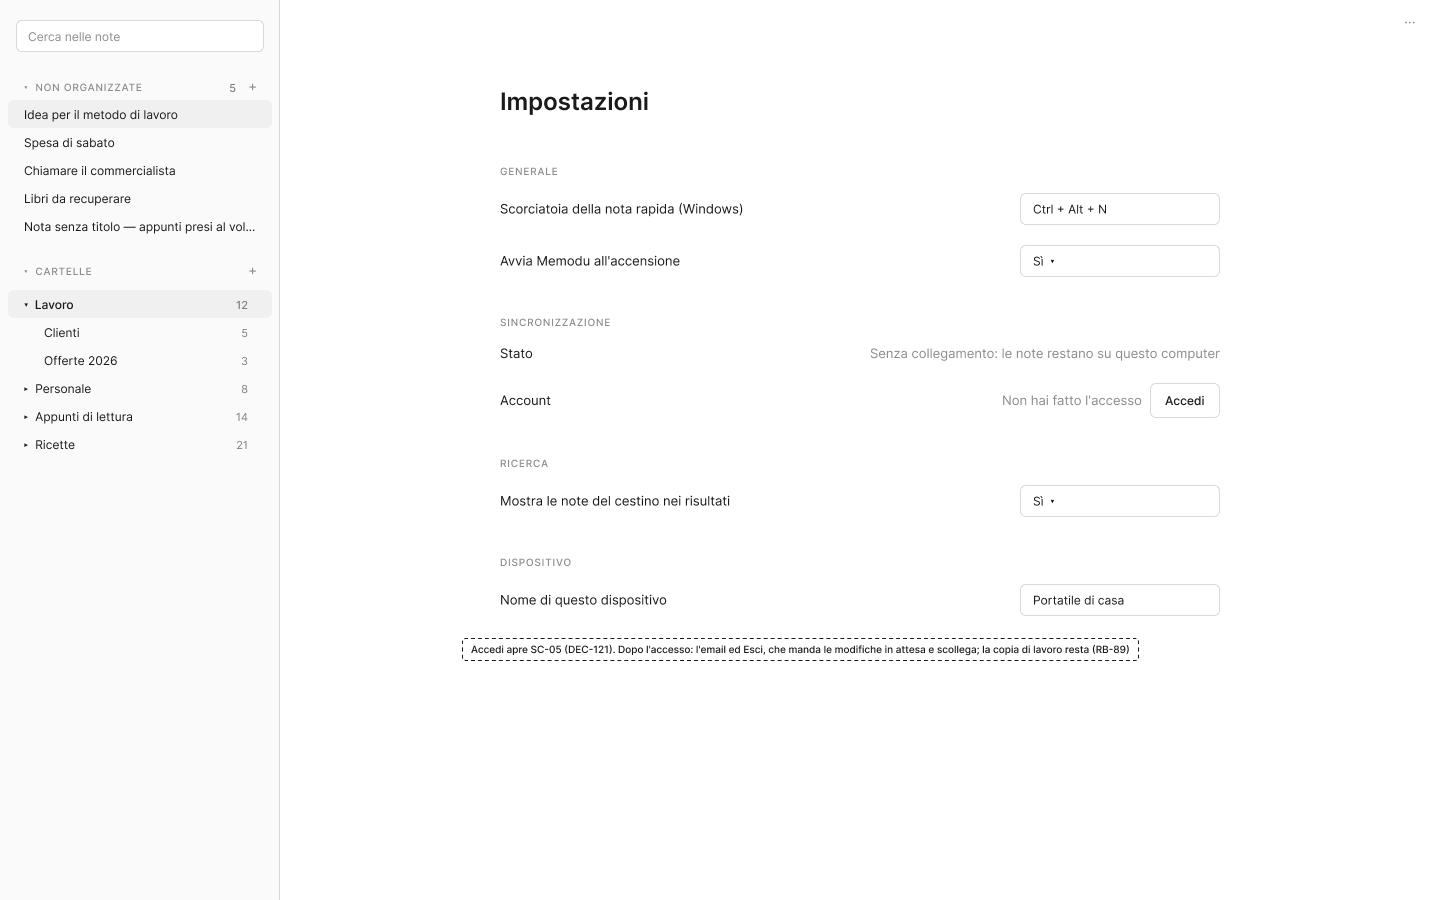
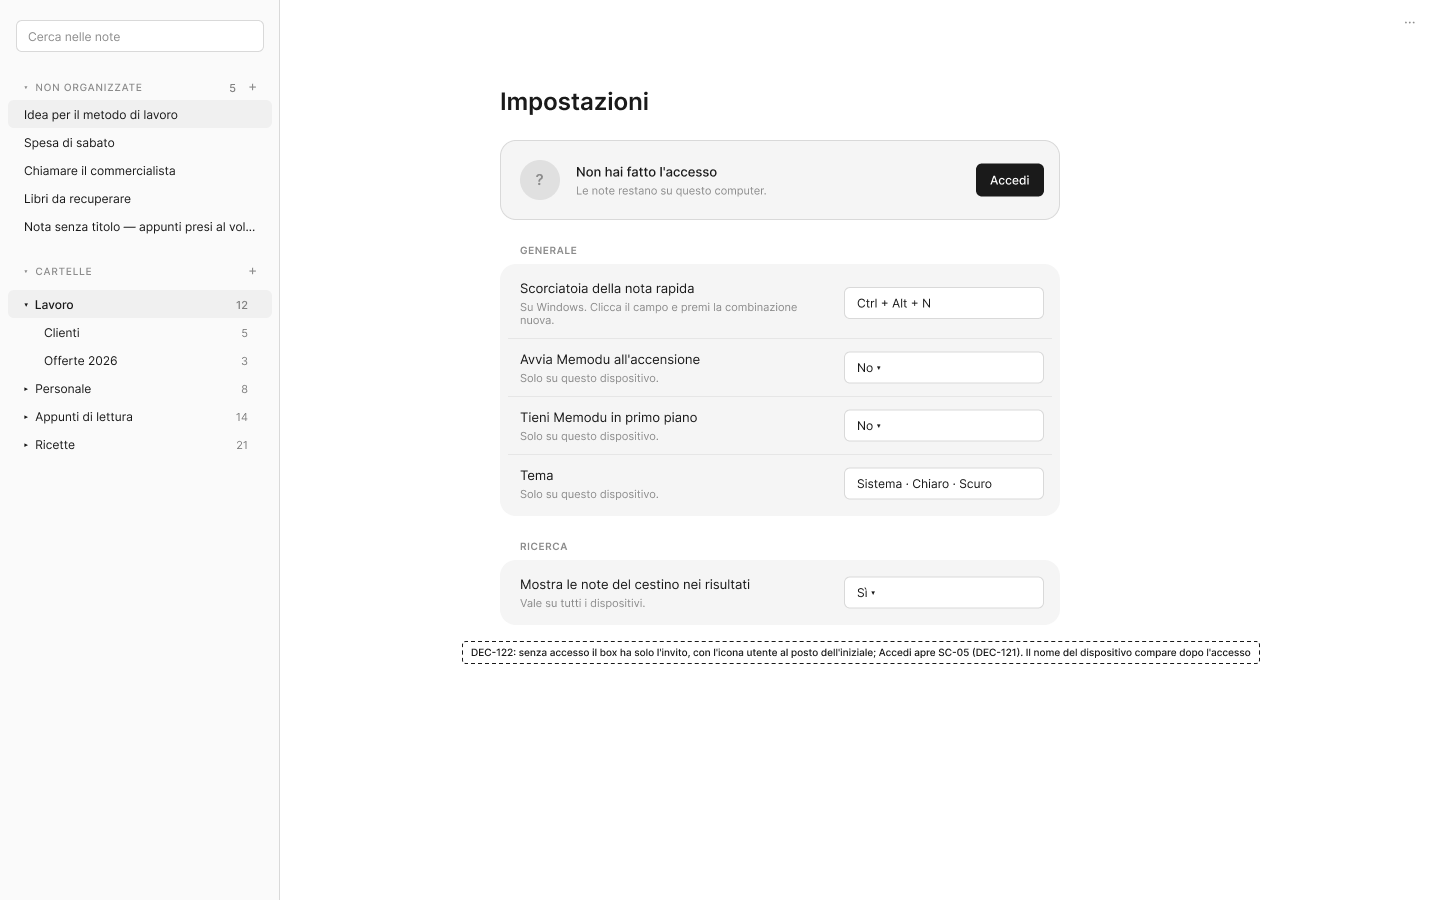
DEC-122: wireframe di SC-06 con il box dell'account
Wireframe senza accesso e collegato rifatti ed esportati: box
dell'account in cima, sezioni Generale e Ricerca in riquadri.

diff --git a/docs/avanzamento.md b/docs/avanzamento.md
@@ -2,7 +2,7 @@
 
 <!-- Stato della documentazione (vedi "Lo stato della documentazione" nella guida). Si sovrascrive; le modifiche non vanno nello storico. Chi riprende il lavoro parte da qui. -->
 
-**Ultimo aggiornamento:** 07/10/2026 (DEC-122 accettata da Manuel Cucca: impostazioni con il box dell'account in cima e le sezioni in riquadri; libreria approvata (CMP-31, CMP-32); prossimo passo wireframe e mockup di SC-06. 0.1.9 installata sul PC Windows, note sul server tutte cifrate; da fare il Mac, TC-127, TC-136 e la rimozione di `MEMODU_IMPRONTA`. Prima, 06/10/2026: DEC-121 accettata da Manuel Cucca: accesso con email e password di un utente fisso e cifratura end-to-end, architettura temporanea e finale; documenti aggiornati, RF-14 e cifratura di RF-10 Pronti con criteri e piano di test approvati, la cifratura di RF-10 va in Fase 8; codice da fare. Prima, 04/10/2026: DEC-120 corretto dopo la prova di Manuel Cucca sulla 0.1.7: velo su tutta la finestra mentre si trascina da fuori, il file rilasciato non entra più nel testo aperto; rilasciato nella 0.1.8, installata sul PC di Manuel Cucca; TC-122 superato su Windows, da provare sul Mac; DEC-120: file e cartelle trascinati dentro Memodu vanno in Locale, trascinamento interno con il puntatore, 0.1.7 rilasciata e installata; DEC-119: sezione CLOUD con le non organizzate nella radice, note prima delle cartelle; libreria pubblicata (CMP-14, menu Aggiungi in CMP-09), mockup di SC-01, SC-03, SC-04, SC-06 e Locale aggiornati con le esportazioni; codice fatto il 04/10/2026 (`Colonna.tsx`, Sposta in, ricerca, ordine di Locale nel nucleo) e visto nell'app; RF-17 Locale progettato dalla Fase 1 alla 8 e scritto, DEC-115 … DEC-118; Ctrl + W e «Chiudi» per impostazioni e cestino, DEC-116, DEC-117; rilascio 0.1.4, installato su tutti e due i computer; TC-86 superato, le altre prove a mano della sincronizzazione messe da parte; criteri e piano di test della sincronizzazione approvati con DEC-109 … DEC-114, RF-10 senza cifratura e RF-14 Pronti; server di sincronizzazione su Vercel con Neon e due computer collegati; rilasci 0.1.2 e 0.1.3, con il testo della nota su tutta la larghezza (DEC-107); prima, 01/10/2026: allineamento generale della documentazione a decisioni e codice, con i dubbi raccolti per Manuel Cucca; CMP-25 in tutte le aree che scorrono, provata anche nella nota rapida; DEC-102 Ctrl + \ fissa la colonna, provata su Windows, da provare su macOS; DEC-99 icona della cartella e DEC-100 spazi dal ruolo del contenitore: libreria, mockup e codice allineati e misurati nell'app; DEC-97: Info più snella e due regole per gli spazi dei contenitori, in libreria e nel codice; prossimo: la pubblicazione della libreria e i mockup; DEC-96: Info sotto il titolo e ricerca avanzata, libreria allineata; RF-08 Ricerca: prove a mano nell'app e correzione dei due difetti trovati; prossimo: le prove che vogliono Manuel Cucca, poi Fase 9)
+**Ultimo aggiornamento:** 07/10/2026 (DEC-122 accettata da Manuel Cucca: impostazioni con il box dell'account in cima e le sezioni in riquadri; libreria approvata (CMP-31, CMP-32); wireframe approvati; prossimo passo i mockup di SC-06. 0.1.9 installata sul PC Windows, note sul server tutte cifrate; da fare il Mac, TC-127, TC-136 e la rimozione di `MEMODU_IMPRONTA`. Prima, 06/10/2026: DEC-121 accettata da Manuel Cucca: accesso con email e password di un utente fisso e cifratura end-to-end, architettura temporanea e finale; documenti aggiornati, RF-14 e cifratura di RF-10 Pronti con criteri e piano di test approvati, la cifratura di RF-10 va in Fase 8; codice da fare. Prima, 04/10/2026: DEC-120 corretto dopo la prova di Manuel Cucca sulla 0.1.7: velo su tutta la finestra mentre si trascina da fuori, il file rilasciato non entra più nel testo aperto; rilasciato nella 0.1.8, installata sul PC di Manuel Cucca; TC-122 superato su Windows, da provare sul Mac; DEC-120: file e cartelle trascinati dentro Memodu vanno in Locale, trascinamento interno con il puntatore, 0.1.7 rilasciata e installata; DEC-119: sezione CLOUD con le non organizzate nella radice, note prima delle cartelle; libreria pubblicata (CMP-14, menu Aggiungi in CMP-09), mockup di SC-01, SC-03, SC-04, SC-06 e Locale aggiornati con le esportazioni; codice fatto il 04/10/2026 (`Colonna.tsx`, Sposta in, ricerca, ordine di Locale nel nucleo) e visto nell'app; RF-17 Locale progettato dalla Fase 1 alla 8 e scritto, DEC-115 … DEC-118; Ctrl + W e «Chiudi» per impostazioni e cestino, DEC-116, DEC-117; rilascio 0.1.4, installato su tutti e due i computer; TC-86 superato, le altre prove a mano della sincronizzazione messe da parte; criteri e piano di test della sincronizzazione approvati con DEC-109 … DEC-114, RF-10 senza cifratura e RF-14 Pronti; server di sincronizzazione su Vercel con Neon e due computer collegati; rilasci 0.1.2 e 0.1.3, con il testo della nota su tutta la larghezza (DEC-107); prima, 01/10/2026: allineamento generale della documentazione a decisioni e codice, con i dubbi raccolti per Manuel Cucca; CMP-25 in tutte le aree che scorrono, provata anche nella nota rapida; DEC-102 Ctrl + \ fissa la colonna, provata su Windows, da provare su macOS; DEC-99 icona della cartella e DEC-100 spazi dal ruolo del contenitore: libreria, mockup e codice allineati e misurati nell'app; DEC-97: Info più snella e due regole per gli spazi dei contenitori, in libreria e nel codice; prossimo: la pubblicazione della libreria e i mockup; DEC-96: Info sotto il titolo e ricerca avanzata, libreria allineata; RF-08 Ricerca: prove a mano nell'app e correzione dei due difetti trovati; prossimo: le prove che vogliono Manuel Cucca, poi Fase 9)
 
 ## Pacchetti e frammenti
 
@@ -16,7 +16,7 @@ Perimetro: note solo cloud più un editor di file locali non sincronizzati (DEC-
 | Must D · Database (DEC-49) | RF-01, RF-02, RF-05, RF-15 (senza cambi visibili) | 1–8 | 9 – Rilascio | Il 30/09/2026 il database è passato dall'API al client: copia di lavoro SQLite nel nucleo Rust (rusqlite) nel file `copia-di-lavoro.db` (DEC-67); l'API è solo il deposito della sincronizzazione (DEC-85, supera DEC-30 e DEC-46 per il dove). Regole dei dati una volta sola, in `client/src-tauri/src/archivio.rs`. Schema della copia di lavoro alla versione 5 (indice della ricerca, DEC-95) |
 | Must C · Etichettare (DEC-41, DEC-44) | RF-06; RF-04 nella finestra Info (date, tag, cartella in lettura) | 1, 2, 3, 4, 5, 6, 7, 8 | 9 – Rilascio | Solo tag (assegnare, togliere, creare, eliminare, vederli nella comparsa sul titolo, DEC-71); trovare le note per tag arriva con la ricerca (RF-08). Date e tag si modificano nella finestra Info (CMP-24), che si chiude anche con un clic fuori (DEC-81). Prove TC-51 … TC-62 superate, revisione del codice fatta, RF-04 e RF-06 a «Fase 9 · Pronto». **DEC-96 (01/10/2026):** la finestra dei dettagli diventa **Info** (CMP-24): con un clic sul titolo del percorso si apre sotto di lui con titolo, date, tag, cartella, Chiudi nota ed Elimina; dal tasto destro su una nota della colonna si apre al centro con il velo; il menu `···` e la comparsa dei metadati (CMP-27) spariscono. Libreria e `componenti.md` allineati. Mockup ridisegnati il 01/10/2026 (Info sotto il titolo, con calendario e suggerimenti, nota senza titolo, Info dal tasto destro; il `···` tolto da tutti i mockup validi), approvati da Manuel Cucca il 01/10/2026. Criteri riscritti dall'agente il 01/10/2026 (CA-04.1, CA-04.2, CA-04.5, nuovi CA-04.7 e CA-04.8; CA-05.4, CA-06.1, CA-06.6, CA-15.1 aggiornati), approvati da Manuel Cucca il 01/10/2026; casi di prova TC-51, TC-52, TC-55, TC-35, TC-44, TC-57, TC-62 da rifare, nuovi TC-79 e TC-80. **Codice fatto il 01/10/2026:** `Info.tsx` (al posto di `FinestraDettagli.tsx`) con i tipi Comparsa e Finestra e il campo del titolo; nel percorso il titolo è un pulsante che apre Info; tolti il menu `···` e `ComparsaMetadati.tsx`; Ctrl + W anche con Info aperta. Prove a mano del 01/10/2026 nell'app su Windows (TC-35, TC-44, TC-51, TC-52, TC-55, TC-57, TC-62, TC-79, TC-80) tutte superate, due dopo una correzione (focus dopo il clic sul velo, titolo subito nella colonna) |
 | Sincronizzazione (DEC-75 … DEC-85) | RF-10, RF-14 | 1–8 (cifratura esclusa) | 9 – Rilascio, dopo le prove a mano | Un blocco per elemento con le versioni precedenti a scalare per 7 giorni (DEC-75, DEC-77, DEC-113), fusione campo per campo e copie in conflitto (DEC-76), all'avvio, dopo ogni modifica e ogni 30 s (DEC-80), avviso dopo un'ora (DEC-112), protocollo versionato (DEC-83), senza credenziali si lavora in locale (DEC-84), avvisi solo sul dispositivo (DEC-90). **Per ora in chiaro** con il formato pronto (DEC-78); il server va in rete su Vercel con l'archivio in Neon, dietro HTTPS e gettone statico (DEC-104, DEC-105), note fino a 4 MB (DEC-106). Criteri CA-10.1 … CA-10.11 e CA-14.1 … CA-14.6 confermati da Manuel Cucca il 04/10/2026, con DEC-109 … DEC-113 (vince la modifica arrivata per ultima al server, rinomina senza cartella vuota, nota in una cartella nel cestino tra le non organizzate, avviso dopo un'ora, versioni per 7 giorni). **Pubblicato il 02/10/2026:** https://memodu-api.vercel.app (Vercel, Root Directory `api`, regione fra1, archivio in Neon): `/vivo`, `/salute`, 401, 426 e 400 provati. Il 02/10/2026 collegato questo PC e un computer nuovo: le note passano da uno all'altro (TC-86 in parte, TC-98 superato; piano di test in `moduli/sincronizzazione/8-test.md`, TC-86 … TC-103). Rilasciate le versioni 0.1.2 e 0.1.3 (Windows e macOS Apple Silicon; installatori non firmati, il Controllo intelligente delle app di Windows li blocca). La cifratura end-to-end di RF-10 manca ancora: **DEC-121 (06/10/2026)** la accende insieme all'accesso con email e password; RF-14 riscritto (wireframe approvati il 06/10/2026; CMP-22 rifatto come finestra, libreria pubblicata, mockup e testi approvati lo stesso giorno; criteri CA-10.12 … CA-10.16, CA-14.7 … CA-14.17 e piano TC-125 … TC-140 approvati: RF-14 e la cifratura di RF-10 Pronti), CA-14.1 … CA-14.6 e TC-97 … TC-102 superati, criteri nuovi da scrivere in Fase 8. Codice di DEC-121: **API fatta il 06/10/2026** (`npm run utente`, richieste `/accesso/*`, JWT; la sincronizzazione accetta anche il gettone statico finché c'è `MEMODU_IMPRONTA`, 36 prove). **Nucleo fatto il 06/10/2026:** sessione nel portachiavi, comandi `accedi`, `esci`, `stato_accesso`, blocchi cifrati, primo giro cifrato (125 prove del nucleo, una contro l'API vera in locale, stessi byte di `api/src/chiavi.ts`); il server cancella le versioni in chiaro (38 prove dell'API). **Interfaccia fatta il 06/10/2026:** CMP-22 (`ModuloAccesso.tsx`), riga Account in SC-06, avviso dell'accesso scaduto al posto della schermata di blocco (212 prove dell'interfaccia); provata nell'app di sviluppo contro l'API in locale (accesso sbagliato e giusto, impostazioni collegate, nota arrivata sul server solo cifrata). Utente vero creato e messo su Vercel da Manuel Cucca il 06/10/2026 (accesso acceso in produzione, `MEMODU_IMPRONTA` ancora presente). Prove a mano in locale il 06/10/2026: superate TC-125, TC-126, TC-128 … TC-135, TC-137 … TC-140; TC-138 dopo una correzione (l'avviso dell'accesso scaduto non compariva riaprendo Memodu: ora la finestra legge lo stato all'avvio). Rilascio 0.1.9 del 06/10/2026 (tag `v0.1.9`). Per riprendere: installazione su tutti e due i computer insieme (la 0.1.8 chiusa prima: il primo accesso passa tutto al cifrato), poi TC-127 e TC-136 con due computer, poi si toglie `MEMODU_IMPRONTA` con il codice del gettone statico. Password del database in Neon già cambiata (Manuel Cucca, 05/10/2026). Da fare: le prove a mano rimaste del piano di test, **messe da parte da Manuel Cucca il 04/10/2026** dopo TC-86 (superato con la 0.1.4 su tutti e due i computer): per riprendere, TC-87 (rete staccata sul computer nuovo: cartella «Offline», nota «TC-87», modifica e spostamento di «TC-86», cartella «prova sinc» nel cestino), poi TC-88 … TC-95 e TC-99 … TC-101. Le note di prova «TC-86» e la cartella «prova sinc» sono nella copia di lavoro; valutare il database a Francoforte (oggi in us-east-1). Piano di test approvato il 04/10/2026: RF-10 (senza cifratura) e RF-14 a «Fase 9 · Pronto»; il mockup di SC-07 resta da fare |
-| Impostazioni (DEC-91, DEC-93, DEC-122) | SC-06; RB-52; parte di RF-01 (scorciatoia modificabile) e RF-11 | 5, 6; codice fatto il 30/09/2026 | DEC-122: wireframe e mockup di SC-06 (libreria approvata il 07/10/2026: CMP-31, CMP-32, CMP-18, icona utente; da pubblicare), criteri CA-14.8, CA-14.9, CA-14.14 e codice | **DEC-122 del 07/10/2026:** box dell'account in cima (iniziale, email, Esci o Accedi, stato con pallino colorato, nome del dispositivo dopo l'accesso); sezioni Generale con il tema e Ricerca, titolo marcato e righe in riquadro; Sincronizzazione, Tema e Dispositivo spariscono come sezioni. Prima: Riga Impostazioni sotto il Cestino; sezioni Generale (scorciatoia della nota rapida, avvio all'accensione, «Tieni Memodu in primo piano»), Tema, Sincronizzazione (solo stato), Dispositivo (nome). Nuovi componenti CMP-04 Interruttore, CMP-18 Riga di impostazione, CMP-28 Scelta a segmenti; mockup di SC-06 approvati. Le note sganciate di DEC-92 sono tolte (DEC-93): RF-12 torna Should. La sezione Ricerca arriva con RF-08. Posizione di «Tieni Memodu in primo piano» da rivedere (DEC-93). Nessun piano di test scritto |
+| Impostazioni (DEC-91, DEC-93, DEC-122) | SC-06; RB-52; parte di RF-01 (scorciatoia modificabile) e RF-11 | 5, 6; codice fatto il 30/09/2026 | DEC-122: mockup di SC-06 (libreria approvata e pubblicata, wireframe approvati il 07/10/2026), criteri CA-14.8, CA-14.9, CA-14.14 e codice | **DEC-122 del 07/10/2026:** box dell'account in cima (iniziale, email, Esci o Accedi, stato con pallino colorato, nome del dispositivo dopo l'accesso); sezioni Generale con il tema e Ricerca, titolo marcato e righe in riquadro; Sincronizzazione, Tema e Dispositivo spariscono come sezioni. Prima: Riga Impostazioni sotto il Cestino; sezioni Generale (scorciatoia della nota rapida, avvio all'accensione, «Tieni Memodu in primo piano»), Tema, Sincronizzazione (solo stato), Dispositivo (nome). Nuovi componenti CMP-04 Interruttore, CMP-18 Riga di impostazione, CMP-28 Scelta a segmenti; mockup di SC-06 approvati. Le note sganciate di DEC-92 sono tolte (DEC-93): RF-12 torna Should. La sezione Ricerca arriva con RF-08. Posizione di «Tieni Memodu in primo piano» da rivedere (DEC-93). Nessun piano di test scritto |
 | Must · resto | RF-03, RF-08, RF-11, cifratura di RF-10 | 1, 2, 3, 4, 5; RF-08 anche 6, 7 e 8 | RF-08: prove a mano nell'app, poi 9 – Rilascio | **In corso: RF-08 Ricerca e filtro** (scelta di Manuel Cucca il 30/09/2026). DEC-94 del 30/09/2026: ricerca in cima alla colonna con Ctrl + K, card con i soli filtri appena si entra nel campo, parole trovate anche dentro le altre (trigrammi FTS5), più tag con tutti i tag, niente filtro Fine validità per ora, sezione Ricerca in SC-06 (RB-69 … RB-72). CMP-13 in libreria senza Fine validità e con la variante Solo filtri (ripubblicata il 30/09/2026). Mockup approvati da Manuel Cucca il 30/09/2026: sei stati della ricerca in SC-01 e SC-06 con la sezione Ricerca. Fase 6 chiusa (prototipo e test saltati come per gli altri frammenti). Fase 7 chiusa il 30/09/2026 con DEC-95: indice FTS5 a trigrammi nello schema 4, aggiornato dai trigger; comando `cerca` e impostazione `cestino_in_ricerca` in `architettura/api.md`. Fase 8 chiusa il 30/09/2026: criteri CA-08.1 … CA-08.16 (200 ms con 5.000 note) e piano di test TC-63 … TC-78 approvati da Manuel Cucca, set di dati Ricerca in `architettura/ambienti.md`; RF-08 Pronto. TC-71 e TC-74 vogliono due dispositivi (a cura di Manuel Cucca). **Per riprendere (30/09/2026):** sviluppo fatto. Nucleo: schema 4 con l'indice FTS5 e i trigger, `archivio_ricerca.rs` con il comando `cerca`, impostazione `cestino_in_ricerca` sincronizzata (87 prove del nucleo; con 5.000 note al massimo 66 ms, TC-78 superato). Interfaccia: `Ricerca.tsx` con campo, card, filtri e menu, Ctrl + K nella finestra principale, sezione Ricerca in SC-06 (162 prove dell'interfaccia); controllata nel browser con un nucleo finto, in chiaro e in scuro, contro i mockup. Corretto durante lo sviluppo: con il cursore già nel campo, Ctrl + K e la scrittura non riaprivano la card. Revisione del codice fatta il 30/09/2026: 10 segnalazioni, 9 confermate e corrette (parola di soli segni diacritici che mandava in panico il nucleo; trigger che scorrevano tutto l'indice a ogni salvataggio, ora con `ricerca_righe` nello schema 5; trigger sui tag che riscriveva l'indice a ogni tag ricevuto; unione di tag doppi che lasciava il percorso vecchio nell'indice; impostazione del cestino azzerata da un blocco senza il campo; un clic nella colonna aperta da Ctrl + K la chiudeva; un errore mostrato come «Nessuna nota trovata»; cartelle lette una query per volta; posizione della card ricalcolata a ogni fotogramma), 1 scartata (accenti piegati diversamente: la prova ha mostrato che indice e nucleo si comportano allo stesso modo). Prove: 92 del nucleo, 164 dell'interfaccia. **Prove a mano il 01/10/2026** nell'app su Windows, con una cartella di prova (`MEMODU_CARTELLA`) e guidate da script: superati TC-63 … TC-70, TC-72, TC-73, TC-75, TC-77; TC-71 e TC-76 superati dopo la correzione (l'avviso del cestino compariva sopra la nota di prima; nel menu Tag il focus usciva dalla card). Prove: 92 del nucleo, 166 dell'interfaccia. Aperto un risultato il cursore non andava nel foglio (Manuel Cucca, 01/10/2026): corretto il 05/10/2026, ora va all'inizio del testo con il clic, con Invio e dalla ricerca avanzata, anche se la nota era già aperta; provato nell'app compilata, non ancora rilasciato. Da fare: parte con il secondo dispositivo di TC-71 e TC-74 (Manuel Cucca); poi Fase 9. Il menu CMP-09 nel codice ha in più la spunta, le voci che non chiudono il menu e il campo in testata (per i filtri) **Ricerca avanzata (DEC-96, CMP-29):** «Mostra tutti i risultati» in fondo alla card o Ctrl + Maiusc + K aprono una finestra grande con i filtri sempre aperti; componente in libreria. Mockup di SC-01 approvato da Manuel Cucca il 01/10/2026. Criteri CA-08.17 … CA-08.21 e casi di prova TC-81 … TC-85 scritti dall'agente e approvati da Manuel Cucca il 01/10/2026. **Codice fatto il 01/10/2026:** «Mostra tutti i risultati» in fondo alla card, Ctrl + Maiusc + K e `RicercaAvanzata.tsx` con testo, filtri e risultati della ricerca della colonna; provato a vista nell'app. Prove a mano TC-81 … TC-85 superate il 01/10/2026. Le parti flottanti (card, Sposta in, Info, ricerca avanzata) scorrono con la barra della libreria (DEC-89), non più con quella di Windows. Prove automatiche: 180 dell'interfaccia. RF-03 Immagini: CMP-21 disegnato, restano il pannello delle impostazioni dell'immagine e come salvarle senza rompere l'esportazione. RF-11: criteri da scrivere. Mockup di Fase 6 fatti per SC-01 … SC-04 e SC-06 |
 | Locale (DEC-115) | RF-17 | 1–8; codice fatto il 04/10/2026 | Prove a mano di Manuel Cucca, poi 9 – Rilascio | **Codice fatto il 04/10/2026:** nucleo `archivio_locale.rs` e `locale.rs` (schema 6, 16 prove), interfaccia `client/src/locale/` (7 prove); provato nell'app con una cartella dei dati di prova: apertura, pallino, Ctrl + S, file cambiato fuori, UTF-8, CRLF, file troppo grande, sola lettura, file nuovo, menu, Cestino di Windows. Prove a mano del 05/10/2026 nell'app installata (0.1.8) su Windows (agente, cartella dei dati di prova): superati TC-104 (tranne il secondo computer), TC-105, TC-106, TC-107, TC-113, TC-115, TC-117, TC-119, TC-123; **TC-114 non superato**: su un disco senza Cestino (provato su una condivisione di rete) Elimina cancellava per sempre senza la conferma; corretto nel nucleo il 05/10/2026 (solo i dischi fissi di Windows vanno nel Cestino), provato nell'app compilata e superato, non ancora rilasciato; resta la prova con una chiavetta vera (vedi `moduli/locale/8-test.md`). Scelte di Manuel Cucca del 04/10/2026 in `moduli/locale/1-requisiti.md`: voce Locale nella colonna con le cartelle aggiunte, solo .md e .txt, crea, rinomina, sposta ed elimina sul disco (nel Cestino del sistema), salvataggio con Ctrl + S, avviso se il file cambia fuori, niente tag, ricerca, cestino né sincronizzazione; elenco delle cartelle per computer. Fase 1 chiusa il 04/10/2026 con lo scenario d'uso; Manuel Cucca ha scelto di progettarlo subito |
 | Should | RF-07, RF-09, RF-12, RF-13, RF-16 | — | 1 – Requisiti | Mancano gli scenari d'uso |

diff --git a/docs/moduli/interfaccia/4-schermate.md b/docs/moduli/interfaccia/4-schermate.md
@@ -98,11 +98,11 @@ Sono al centro della finestra, con un velo sul resto. L'azione principale sta a 
 ## SC-06 – Impostazioni
 **Entità:** EN-07, EN-05 · **Componenti:** riga di impostazione, campo di testo, pulsante; box dell'account e gruppo di righe in riquadro da disegnare (DEC-122)
 
-- **Wireframe:** [impostazioni, senza accesso](https://www.figma.com/design/ioeRDMTxu3TEMoLN8rinAK/Memodu--Wireframe--Fase-4-?node-id=38-227) · [collegato](https://www.figma.com/design/ioeRDMTxu3TEMoLN8rinAK/Memodu--Wireframe--Fase-4-?node-id=75-260) (sezione Sincronizzazione approvata da Manuel Cucca il 06/10/2026; nel wireframe manca la sezione Tema, che è nel mockup)
+- **Wireframe:** [impostazioni, senza accesso](https://www.figma.com/design/ioeRDMTxu3TEMoLN8rinAK/Memodu--Wireframe--Fase-4-?node-id=38-227) · [collegato](https://www.figma.com/design/ioeRDMTxu3TEMoLN8rinAK/Memodu--Wireframe--Fase-4-?node-id=75-260) (rifatti con DEC-122 e approvati da Manuel Cucca il 07/10/2026: box dell'account in cima, Generale con il tema e Ricerca in riquadri)
 - **Esportazioni:** `immagini/SC-06.png`, `immagini/SC-06-collegato.png`
 - **Mockup (DEC-91, approvati da Manuel Cucca il 30/09/2026):** [impostazioni](https://www.figma.com/design/18288YdcRf5vtWCtEefQYJ?node-id=109-6661) · [scorciatoia già usata](https://www.figma.com/design/18288YdcRf5vtWCtEefQYJ?node-id=109-6895); esportazioni `immagini/SC-06-mockup.png`, `immagini/SC-06-scorciatoia-usata-mockup.png`. Sezione Sincronizzazione con l'accesso (DEC-121, approvati da Manuel Cucca il 06/10/2026): [senza accesso](https://www.figma.com/design/18288YdcRf5vtWCtEefQYJ?node-id=210-3778) · [collegato](https://www.figma.com/design/18288YdcRf5vtWCtEefQYJ?node-id=210-3983); esportazioni `immagini/SC-06-senza-accesso-mockup.png`, `immagini/SC-06-collegato-mockup.png`. Testi dei gruppi e delle righe come nei componenti (CMP-18, CMP-28): da confermare in Fase 6. Il 30/09/2026 hanno la riga «Tieni Memodu in primo piano» in Generale, posizione da rivedere (DEC-93), ed esportati di nuovo. Sempre il 30/09/2026 hanno la sezione Ricerca (DEC-94, approvata da Manuel Cucca il 30/09/2026) e il campo di ricerca in cima alla colonna, ed esportati di nuovo.
 
-**Con DEC-122 (07/10/2026) la pagina cambia:** wireframe, mockup ed esportazioni qui sopra mostrano ancora le cinque sezioni di DEC-91 e si rifanno dopo i componenti nuovi in libreria.
+**Con DEC-122 (07/10/2026) la pagina cambia:** wireframe ed esportazioni `SC-06.png`, `SC-06-collegato.png` sono già rifatti; i mockup qui sopra mostrano ancora le cinque sezioni di DEC-91 e si rifanno con CMP-31 e CMP-32.
 
 Si apre dalla riga **Impostazioni** in fondo alla colonna, sotto il Cestino, al posto della nota come il cestino (DEC-91). Una sola schermata: in cima il box dell'account, sotto due sezioni con il titolo marcato e le righe dentro un riquadro, separate da una linea sottile (DEC-122):
 

diff --git a/docs/registri/storico.md b/docs/registri/storico.md
@@ -463,3 +463,4 @@
 | 06/10/2026 | Agente IA | Interfaccia dell'accesso: CMP-22 come finestra con «Non voglio usare il cloud», riga Account in SC-06 con Accedi ed Esci, avviso dell'accesso scaduto; la schermata di blocco non compare più per le credenziali | DEC-121 |
 | 07/10/2026 | Manuel Cucca | SC-06 riorganizzata: box dell'account in cima con lo stato della sincronizzazione (pallino colorato), l'iniziale dell'email e il nome del dispositivo dopo l'accesso; sezioni Generale (con il tema) e Ricerca con titolo marcato e righe in riquadro; spariscono le sezioni Sincronizzazione, Tema e Dispositivo | DEC-122 |
 | 07/10/2026 | Manuel Cucca | Libreria approvata per DEC-122: CMP-31 Gruppo di impostazioni (titolo marcato e righe in un riquadro), CMP-32 Box dell'account (quattro stati, pallino dello stato, iniziale, nome del dispositivo), titolo di gruppo di CMP-18 come i titoli di sezione della colonna, icona utente in CMP-02 | DEC-122 |
+| 07/10/2026 | Manuel Cucca | Wireframe di SC-06 approvati per DEC-122 (senza accesso e collegato), esportati di nuovo | DEC-122 |
